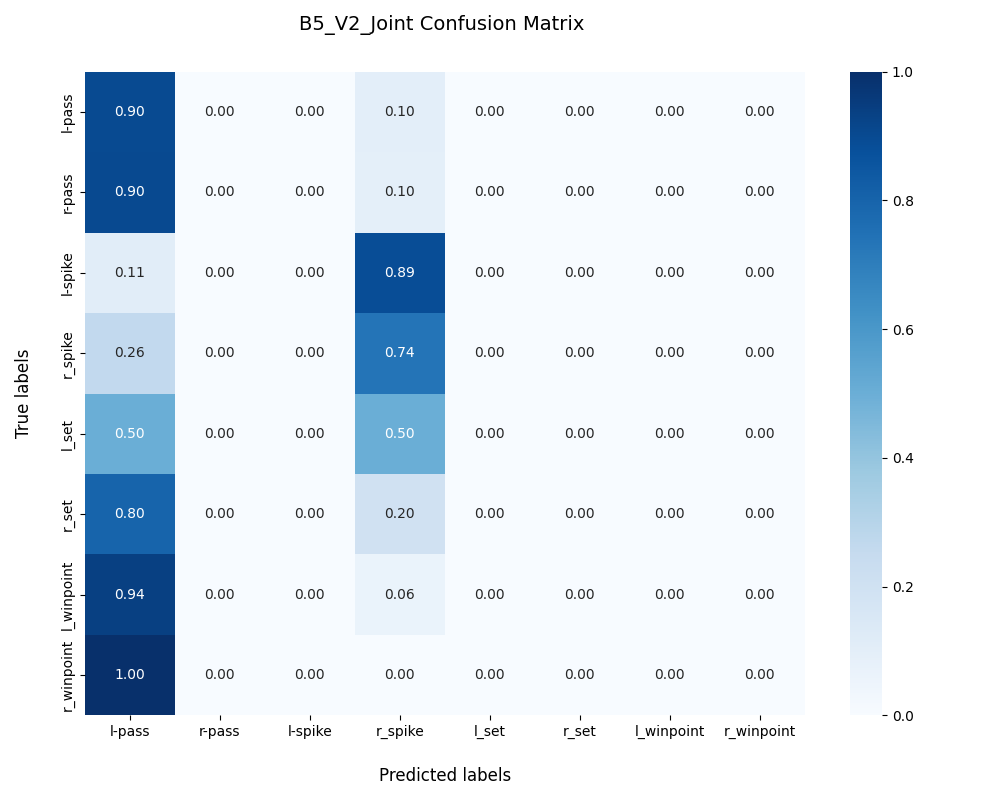
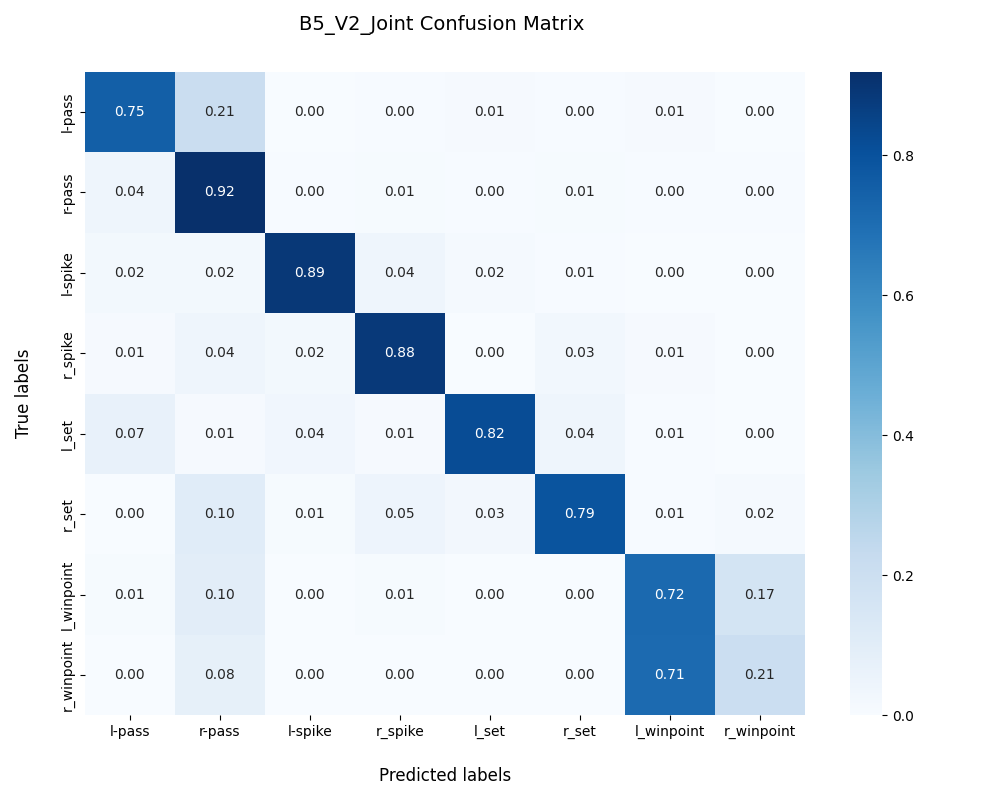
Results from Kaggle run for baseline 5 joint v1

Changed region(s): [[0.062, 0.0625, 0.806, 0.9062], [0.062, 0.375, 0.186, 0.9062], [0.899, 0.7188, 0.93, 0.75]]

diff --git a/train/b5_v2_joint_train.py b/train/b5_v2_joint_train.py
@@ -40,19 +40,19 @@ num_group_actions = conf_dict['model']['num_group_actions']
 num_player_actions = conf_dict['model']['num_player_actions']
 
 # DataLoaders
-train_dataset=VolleyballPersonDataset(videos_root,annot_root,train_ids,one_frame=True,player_label=False,train=True)
+train_dataset=VolleyballPersonDataset(videos_root,annot_root,train_ids,one_frame=False,player_label=False,train=True)
 train_loader=DataLoader(train_dataset,batch_size=batch_size,shuffle=True,num_workers=num_workers,pin_memory=pin_memory)
 
-val_dataset=VolleyballPersonDataset(videos_root,annot_root,val_ids,one_frame=True,player_label=False,train=False)
+val_dataset=VolleyballPersonDataset(videos_root,annot_root,val_ids,one_frame=False,player_label=False,train=False)
 val_loader=DataLoader(val_dataset,batch_size=batch_size,shuffle=False,num_workers=num_workers,pin_memory=pin_memory)
 
-test_dataset=VolleyballPersonDataset(videos_root,annot_root,test_ids,one_frame=True,player_label=False,train=False)
+test_dataset=VolleyballPersonDataset(videos_root,annot_root,test_ids,one_frame=False,player_label=False,train=False)
 test_loader=DataLoader(test_dataset,batch_size=batch_size,shuffle=False,num_workers=num_workers,pin_memory=pin_memory)
 
 # Setup
 device = torch.device("cuda" if torch.cuda.is_available() else "cpu")
 backbone=B3_Player_Classifier(num_player_actions)
-backbone.load_state_dict(torch.load('checkpoints/b3_player_classifier_best_model_checkpoint.pth',map_location=device,weights_only=True)['model_state_dict'])
+backbone.load_state_dict(torch.load('/kaggle/input/datasets/myahiia/b3-player-classifier-dataset/Group-Activity-Recognition/checkpoints/b3_player_classifier_best_model_checkpoint.pth',map_location=device,weights_only=True)['model_state_dict'])
 model=B5_Joint(backbone,num_group_actions)
 model=model.to(device)
 criterion = nn.CrossEntropyLoss()

diff --git a/utils/volleyball_annot_loader.py b/utils/volleyball_annot_loader.py
@@ -82,8 +82,8 @@ def load_volleyball_dataset(videos_root, annot_root):
     # annot_root -> volleyball_tracking_annotation
 
     # check for preloaded annotations
-    #annot_path='/kaggle/input/notebooks/myahiia/dataset-annot-loader/data/video_annot.pth'
-    annot_path = os.path.join('data','video_annot.pth')
+    annot_path='/kaggle/input/notebooks/myahiia/dataset-annot-loader/data/video_annot.pth'
+    #annot_path = os.path.join('data','video_annot.pth')
     if os.path.exists(annot_path):
         logger.info(f"Loading cached annotations from {annot_path}")
         videos_annot=torch.load(annot_path,weights_only=False)

diff --git a/models/b5_v2_joint.py b/models/b5_v2_joint.py
@@ -24,7 +24,7 @@ class B5_Joint(nn.Module):
         X=X.view(B*F*P,C,W,H)
         X=self.backbone(X) #B*F*P,2048,1,1
         X=X.view(B,F,P,2048) 
-        X=X.permute(0,2,1,3).view(B*P,F,2048) #B,P,F,2048
+        X=X.permute(0,2,1,3).reshape(B*P,F,2048) #B,P,F,2048
         #batch,seq_len,input_size
         out,(h,c)=self.lstm(X) #out -> B*P,F,512
         out=out[:,-1,:] #B*P,512
